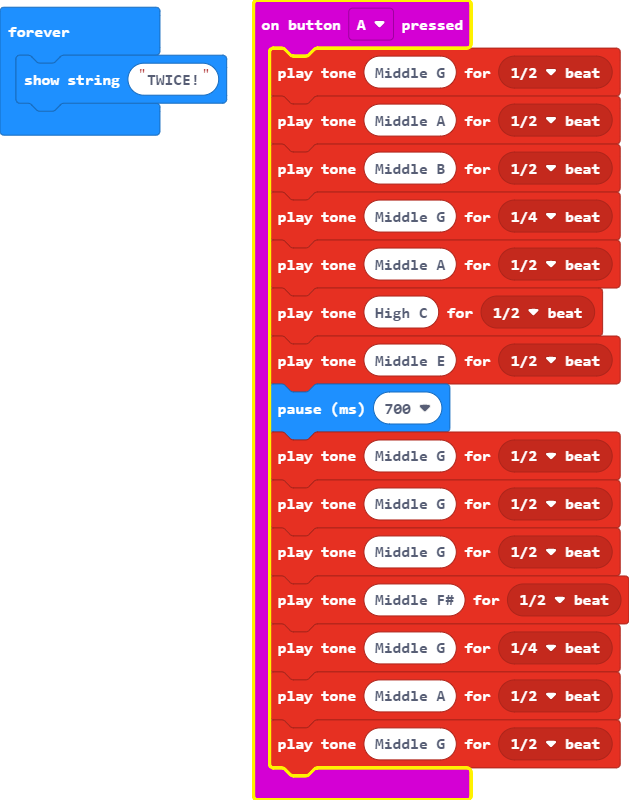
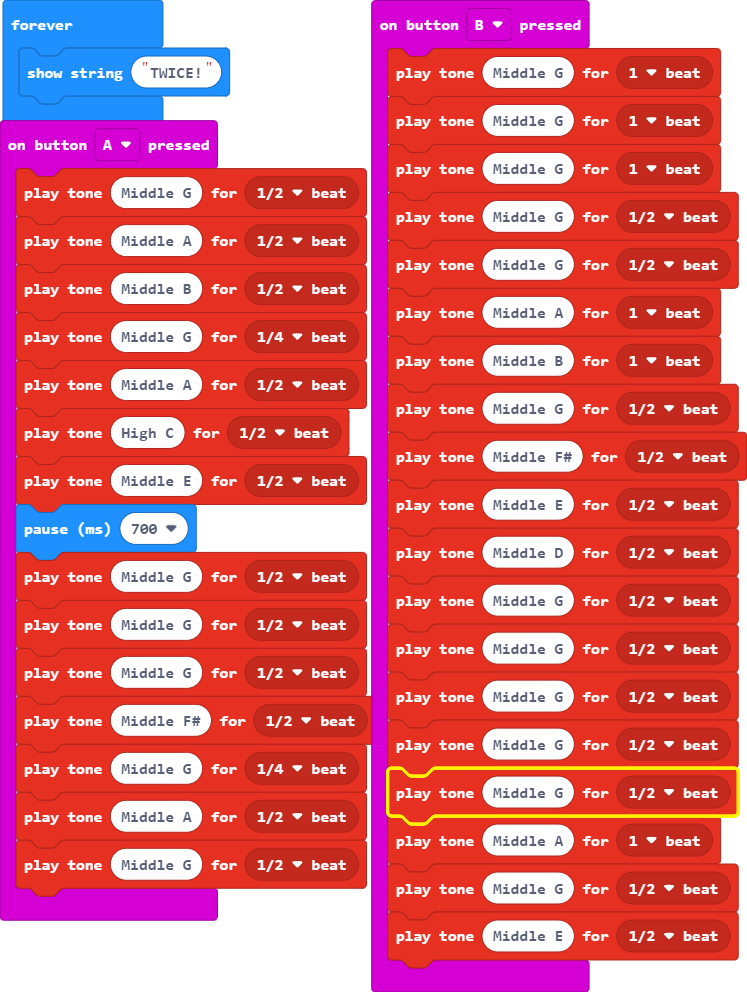
Update main.blocks, main.ts

diff --git a/main.ts b/main.ts
@@ -15,6 +15,27 @@ input.onButtonPressed(Button.A, function () {
     music.playTone(440, music.beat(BeatFraction.Half))
     music.playTone(392, music.beat(BeatFraction.Half))
 })
+input.onButtonPressed(Button.B, function () {
+    music.playTone(392, music.beat(BeatFraction.Whole))
+    music.playTone(392, music.beat(BeatFraction.Whole))
+    music.playTone(392, music.beat(BeatFraction.Whole))
+    music.playTone(392, music.beat(BeatFraction.Half))
+    music.playTone(392, music.beat(BeatFraction.Half))
+    music.playTone(440, music.beat(BeatFraction.Whole))
+    music.playTone(494, music.beat(BeatFraction.Whole))
+    music.playTone(392, music.beat(BeatFraction.Half))
+    music.playTone(370, music.beat(BeatFraction.Half))
+    music.playTone(330, music.beat(BeatFraction.Half))
+    music.playTone(294, music.beat(BeatFraction.Half))
+    music.playTone(392, music.beat(BeatFraction.Half))
+    music.playTone(392, music.beat(BeatFraction.Half))
+    music.playTone(392, music.beat(BeatFraction.Half))
+    music.playTone(392, music.beat(BeatFraction.Half))
+    music.playTone(392, music.beat(BeatFraction.Half))
+    music.playTone(440, music.beat(BeatFraction.Whole))
+    music.playTone(392, music.beat(BeatFraction.Half))
+    music.playTone(330, music.beat(BeatFraction.Half))
+})
 basic.forever(function () {
     basic.showString("TWICE!")
 })
